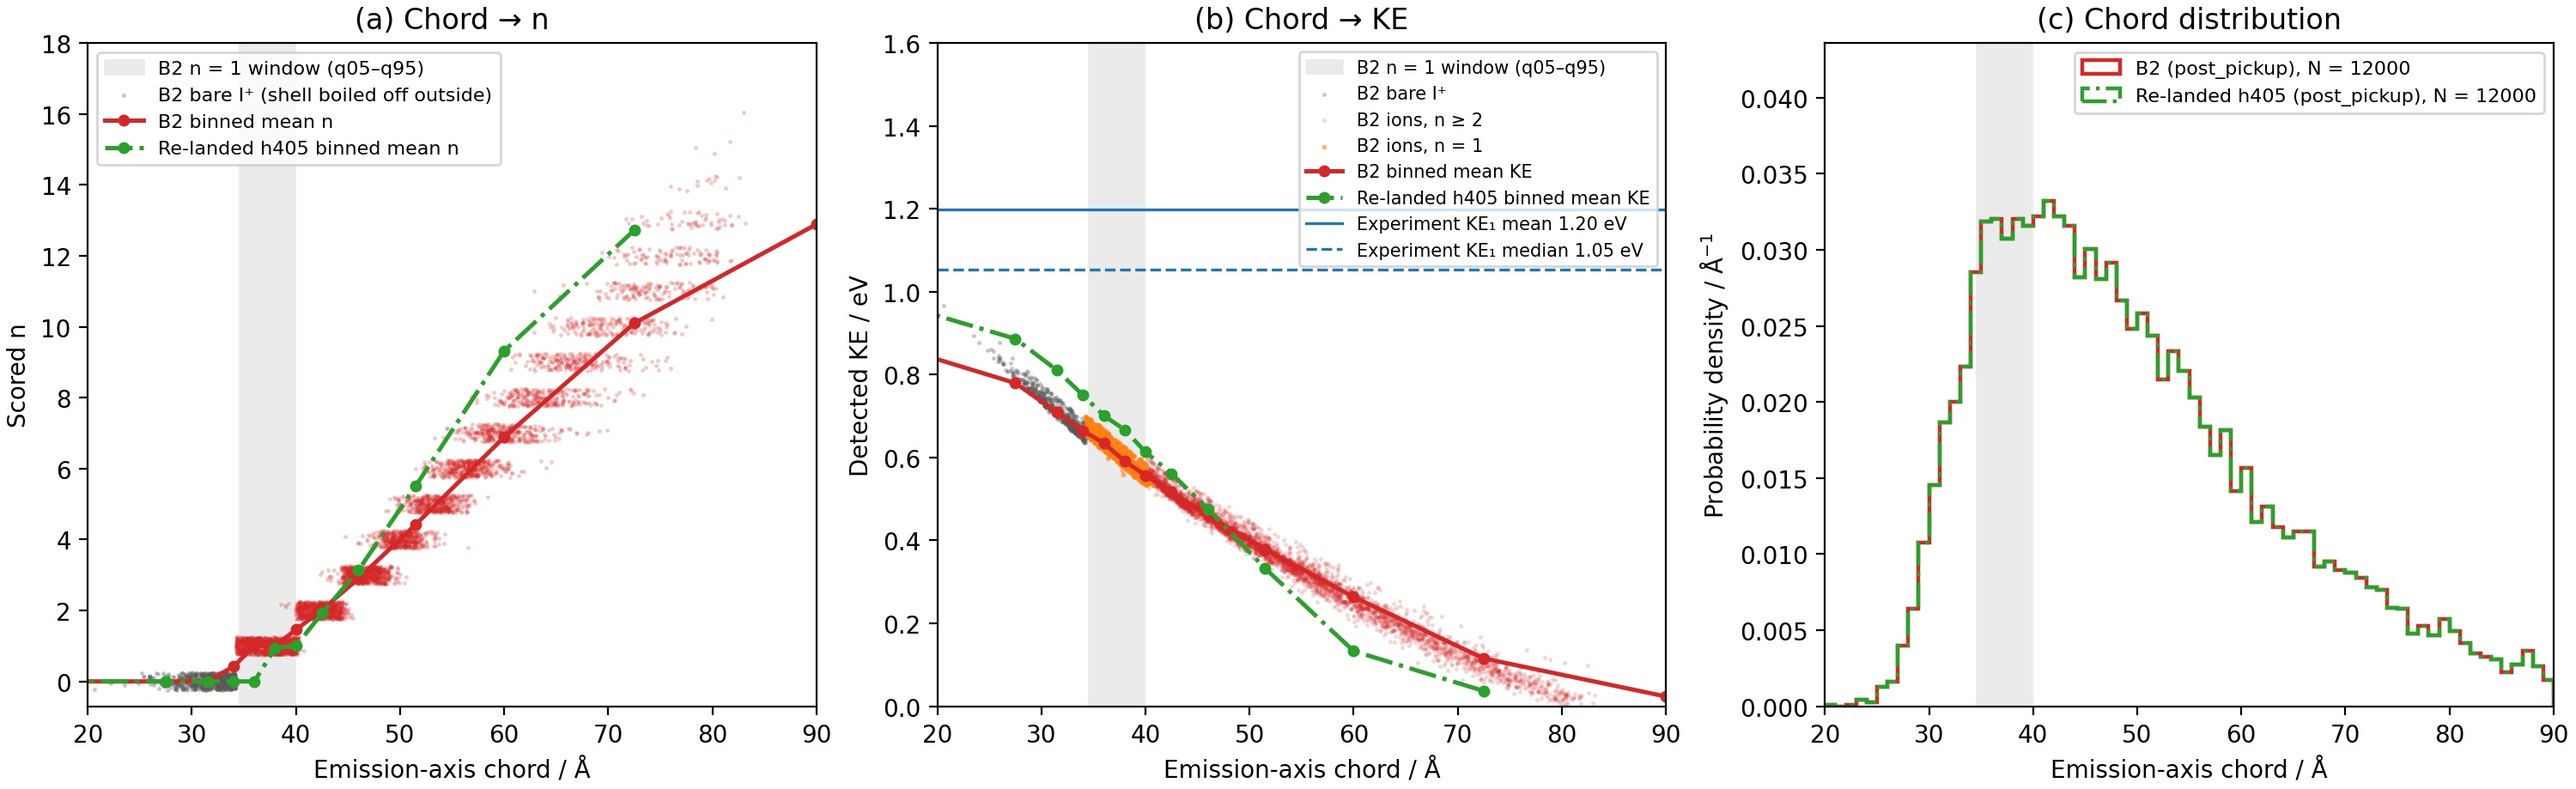
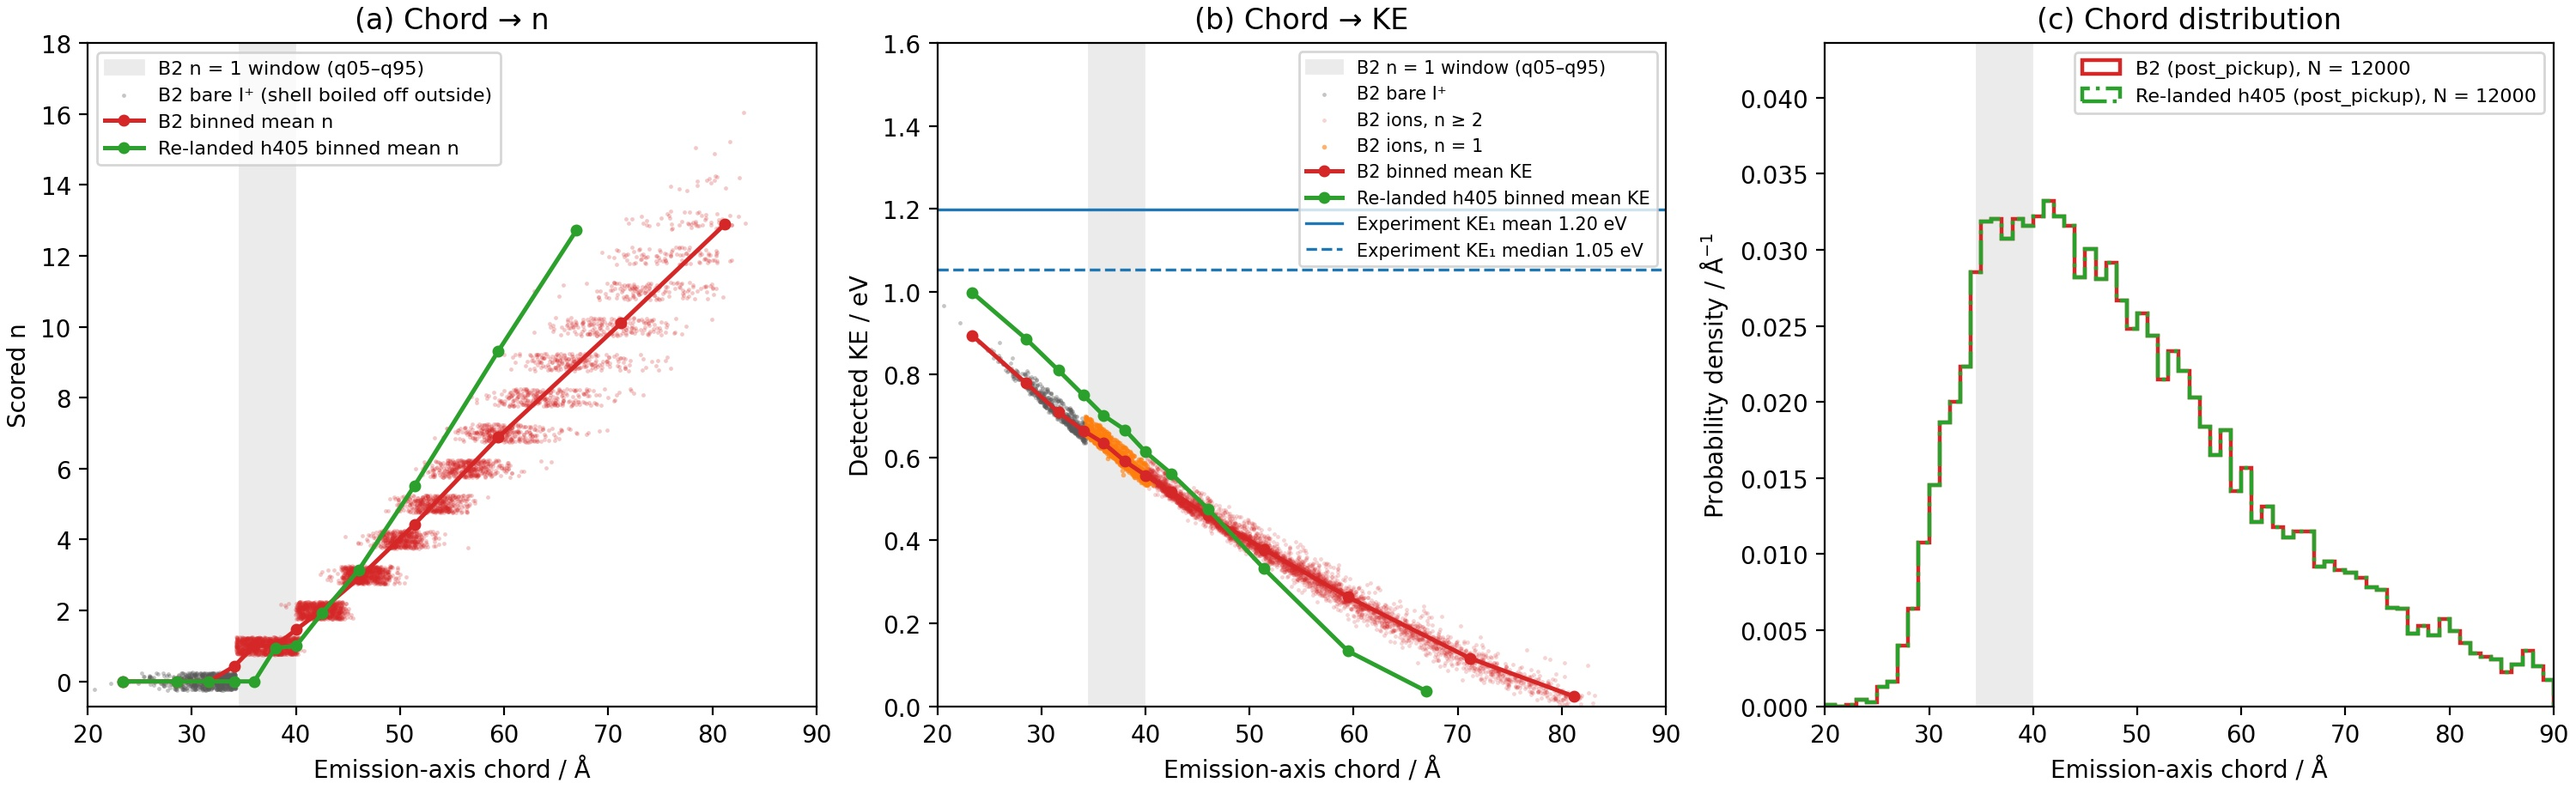
G6 chord map: binned curves at mean chord, solid h405 line
Binned mean n / KE are plotted at the mean chord of each bin's ions
instead of the bin midpoint (the 0-25 A bin sat off-axis at 12.5 A, so
the curve did not follow the bare-ion scatter). Anchor checks still use
midpoints; stats CSVs unchanged. h405 binned curves drawn solid; the (c)
histogram keeps dash-dot because it coincides with B2.

diff --git a/i2_helium_md/scripts/post_processing/tier2_g6_chord_map.py b/i2_helium_md/scripts/post_processing/tier2_g6_chord_map.py
@@ -15,6 +15,9 @@ off to bare I+ in flight. The panels read the thesis production members
 (``B2_N1000_s1`` ... ``_s6``, ``h405_N1000_s…``; same seeds, so the same
 chords -- checked); the anchors read the committed ``never`` members.
 
+Binned curves in (a) / (b) are plotted at the mean chord of each bin's ions
+(the anchor checks compare bin midpoints).
+
 (a) scored n vs emission-axis chord [A] (per-ion scatter + binned mean n);
     the boiled-off ions sit at n = 0 (bare, excluded from the solvated read,
     RQ8). The committed B2 chord CSV (``never``) carries the suppressed raw
@@ -126,7 +129,7 @@ ANCHOR_COLS = ("ions", "retained_frac", "n1_frac", "mean_n", "mean_KE_eV")
 H405_ANCHOR_COLS = ("num_scored", "nbar_det", "supp")
 # tier2_b2_thesis_figure colours: experiment tab:blue, B2 simulation tab:red
 STYLE = {"B2": dict(color="tab:red", ls="-"),
-         "h405": dict(color="tab:green", ls="-.")}
+         "h405": dict(color="tab:green", ls="-")}
 EXP_COLOR = "tab:blue"
 NAMES = {"B2": "B2", "h405": "Re-landed h405"}
 VARIANTS = (("g6_chord_map_b2_only", False), ("g6_chord_map_with_h405", True))
@@ -159,18 +162,25 @@ def _check_h405_anchor(d: dict[str, np.ndarray]) -> None:
             raise RuntimeError(f"anchor: h405 {k} {got[k]:.4f} vs committed {rows[0][k]}")
 
 
-def _binned_from_ions(d: dict[str, np.ndarray], edges: list[float]
+def _binned_from_ions(d: dict[str, np.ndarray], edges: list[float], *,
+                      x_at_mean_chord: bool = False
                       ) -> tuple[np.ndarray, np.ndarray, np.ndarray]:
-    """Bin midpoints [A], mean scorer-n and mean detected KE [eV] over scored
-    ions per chord bin (empty bins dropped; open last bin plotted at its lower
-    edge + 10 A, as in ``_binned``)."""
+    """Bin x [A], mean scorer-n and mean detected KE [eV] over scored ions per
+    chord bin (empty bins dropped). x is the bin midpoint (open last bin at
+    its lower edge + 10 A, as in ``_binned`` -- the anchor convention) or,
+    with ``x_at_mean_chord``, the mean chord of the bin's ions (the plotted
+    convention: the wide 0-25 A bin would otherwise sit at 12.5 A, off the
+    axis, although its ions lie at 20-25 A)."""
     s = d["scored"] & np.isfinite(d["ke"])
     x, mn, mk = [], [], []
     for lo_e, hi_e in zip(edges[:-1], edges[1:]):
         sel = s & (d["chord"] >= lo_e) & (d["chord"] < hi_e)
         if not sel.any():
             continue
-        x.append(0.5 * (lo_e + hi_e) if hi_e - lo_e < 50 else lo_e + 10.0)
+        if x_at_mean_chord:
+            x.append(float(d["chord"][sel].mean()))
+        else:
+            x.append(0.5 * (lo_e + hi_e) if hi_e - lo_e < 50 else lo_e + 10.0)
         mn.append(float(d["n_scorer"][sel].mean()))
         mk.append(float(d["ke"][sel].mean()))
     return np.asarray(x), np.asarray(mn), np.asarray(mk)
@@ -339,8 +349,8 @@ def main() -> int:
     _check_h405_anchor(h405_intact)
     b2 = _decoupled_read("B2", b2_intact)
     h405 = _decoupled_read("h405", h405_intact)
-    binned = {"B2": _binned_from_ions(b2, edges_csv),
-              "h405": _binned_from_ions(h405, edges_csv)}
+    binned = {"B2": _binned_from_ions(b2, edges_csv, x_at_mean_chord=True),
+              "h405": _binned_from_ions(h405, edges_csv, x_at_mean_chord=True)}
 
     stats = _g7_stats(b2)
     stats["exp_KE1_sigma_eV"] = _exp_ke1(ked)[2]
@@ -432,9 +442,9 @@ def _draw(b2: dict[str, np.ndarray], h405: dict[str, np.ndarray] | None,
     edges = np.arange(lo, hi + HIST_BIN_A, HIST_BIN_A)
     axc.hist(b2["chord"], bins=edges, density=True, histtype="step", lw=1.6,
              **STYLE["B2"], label=f"B2 (post_pickup), N = {b2['chord'].size}")
-    if h405 is not None:
+    if h405 is not None:   # coincides with B2 bin for bin: dash-dot keeps B2 visible
         axc.hist(h405["chord"], bins=edges, density=True, histtype="step", lw=1.6,
-                 **STYLE["h405"], label=f"{NAMES['h405']} (post_pickup), N = {h405['chord'].size}")
+                 **{**STYLE["h405"], "ls": "-."}, label=f"{NAMES['h405']} (post_pickup), N = {h405['chord'].size}")
     axc.axvspan(*win, color="0.92", zorder=0)
     axc.set_ylim(0, 1.25 * axc.get_ylim()[1])
     axc.set(xlim=CHORD_RANGE_A, xlabel="Emission-axis chord / Å",
